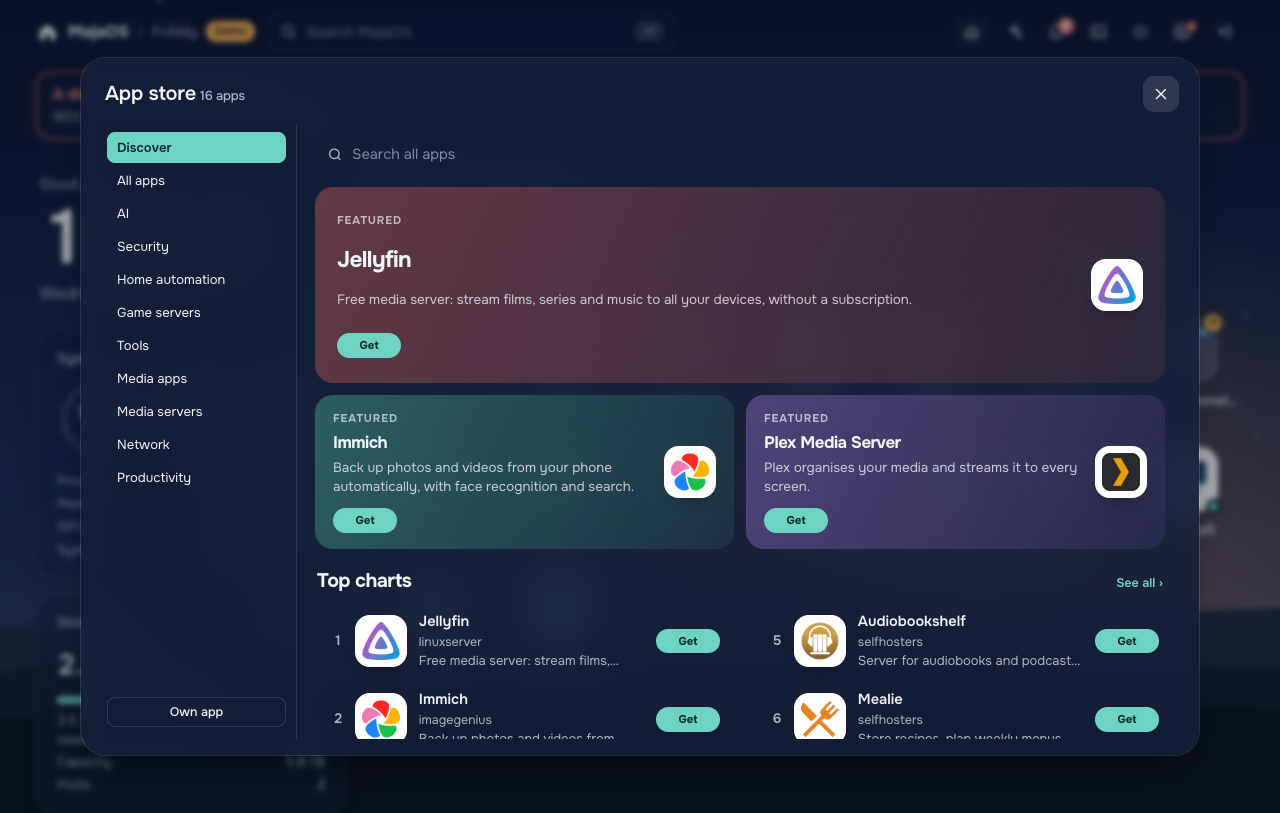
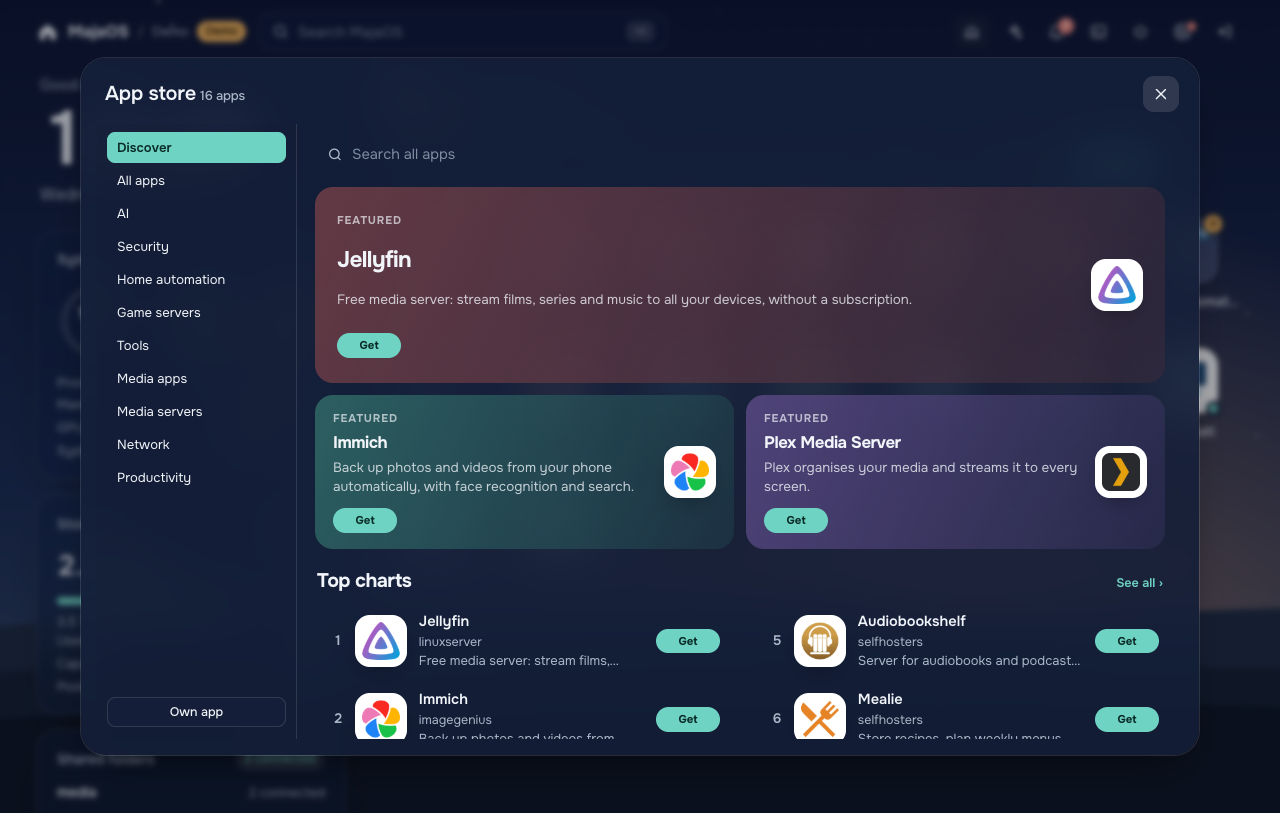
Call the demo server Demo and keep all its disks healthy; AI is not only Ollama.
The demo's server is named Demo (header, drive case, About, certificate names, backup paths). Bay 8 no longer remembers a removed disk, and sdd and sdb no longer have reallocated sectors or CRC errors, so the demo shows no disk warnings. The screenshots in docs/images are retaken.

The README lists every AI MajaOS can use: Ollama, LM Studio, llama.cpp, LocalAI or Claude, plus the MCP address.

diff --git a/public/demo.js b/public/demo.js
@@ -273,7 +273,7 @@
     if (action === 'setup') {
       if (mfa.enabled) throw err('Two-step verification is already on. Turn it off first to link again.', 409);
       mfa.setup = b32enc(crypto.getRandomValues(new Uint8Array(20)));
-      return { secret: mfa.setup, uri: `otpauth://totp/MajaOS:freddy?secret=${mfa.setup}&issuer=MajaOS&algorithm=SHA1&digits=6&period=30` };
+      return { secret: mfa.setup, uri: `otpauth://totp/MajaOS:demo?secret=${mfa.setup}&issuer=MajaOS&algorithm=SHA1&digits=6&period=30` };
     }
     if (!(await mfaCheck(body.code)).ok) { await wait(800); throw err('That code is not correct.', 401); }
     if (action === 'disable') { Object.assign(mfa, { enabled: false, secret: null, recovery: [], lastCounter: -1, since: null }); return { ok: true }; }
@@ -299,7 +299,7 @@
     };
   }
   const net = {
-    hostname: 'freddy', manager: 'ifupdown', editable: true, physical: ['enp5s0'], dns: ['192.168.1.1', '1.1.1.1'], resolvManaged: false, pending: null,
+    hostname: 'demo', manager: 'ifupdown', editable: true, physical: ['enp5s0'], dns: ['192.168.1.1', '1.1.1.1'], resolvManaged: false, pending: null,
     links: [
       { name: 'enp5s0', mac: 'a8:a1:59:3c:21:7e', up: true, state: 'UP', kind: 'ethernet', master: 'br0', ipv4: [], ipv6: [], gateway: null, speed: 2500 },
       { name: 'br0', mac: 'a8:a1:59:3c:21:7e', up: true, state: 'UP', kind: 'bridge', master: null, ipv4: [{ address: '192.168.1.10/24', dynamic: false }], ipv6: [], gateway: '192.168.1.1', speed: null },
@@ -919,14 +919,14 @@
       { key: 'user', label: 'User', type: 'text', required: true },
       { key: 'pass', label: 'Password', type: 'password', required: true }] },
   };
-  const bkRemotes = [{ name: 'google', type: 'drive', detail: '' }, { name: 'nas-mum', type: 'sftp', detail: 'freddy@nas-mum.home.arpa' }];
+  const bkRemotes = [{ name: 'google', type: 'drive', detail: '' }, { name: 'nas-mum', type: 'sftp', detail: 'demo@nas-mum.home.arpa' }];
   const bkResult = (hoursAgo, mins, files, size, extra = {}) => ({ kind: 'backup', dryRun: false, scheduled: true, started: Date.now() - hoursAgo * HOUR,
     ended: Date.now() - hoursAgo * HOUR + mins * 60000, state: 'ok', bytes: size, files, checks: 1840, deletes: 0, errors: 0, error: null, ...extra });
   const bkJobs = [
-    { id: 'a1b2c3d4', name: 'Photos to Google Drive', direction: 'push', mode: 'copy', remote: 'google', remotePath: 'Backups/Freddy/photos', localPath: '/tank/photos',
+    { id: 'a1b2c3d4', name: 'Photos to Google Drive', direction: 'push', mode: 'copy', remote: 'google', remotePath: 'Backups/Demo/photos', localPath: '/tank/photos',
       encrypt: false, versions: false, keepDays: 30, schedule: { every: 'daily', time: '02:00', day: 0 }, excludes: ['.DS_Store'], bwlimit: '',
       created: Date.now() - 40 * 86400000, lastScheduled: Date.now() - 7 * HOUR, lastRun: bkResult(7, 12, 34, 210 * MB) },
-    { id: 'b2c3d4e5', name: "Documents to Mum's NAS", direction: 'push', mode: 'sync', remote: 'nas-mum', remotePath: 'backup-freddy', localPath: '/tank/documents',
+    { id: 'b2c3d4e5', name: "Documents to Mum's NAS", direction: 'push', mode: 'sync', remote: 'nas-mum', remotePath: 'backup-demo', localPath: '/tank/documents',
       encrypt: true, versions: true, keepDays: 90, schedule: { every: 'weekly', time: '03:30', day: 0 }, excludes: [], bwlimit: '5M',
       created: Date.now() - 60 * 86400000, lastScheduled: Date.now() - 5 * 86400000, lastRun: bkResult(5 * 24, 4, 112, 380 * MB, { deletes: 3 }) },
     { id: 'c3d4e5f6', name: 'Keep Google Drive at home', direction: 'pull', mode: 'copy', remote: 'google', remotePath: '', localPath: '/tank/backups/google-drive',
@@ -943,7 +943,7 @@
       used: 186 * GB, lastChange: Date.now() - 50 * 60000, snapshots: 212, folders: ['C:\\Users\\tom'] },
   ];
   // Backup app (Kopia) on the NAS: turned on, with one PC.
-  const demoKopia = { installed: true, version: '0.19.0', enabled: true, running: true, port: 51515, hostname: 'Freddy', addresses: ['192.168.1.10'],
+  const demoKopia = { installed: true, version: '0.19.0', enabled: true, running: true, port: 51515, hostname: 'Demo', addresses: ['192.168.1.10'],
[1 lines of base64/hex data omitted]
     appUrl: 'https://github.com/lennertvh1/kopia/releases/latest' };
   const demoCode = () => { const abc = 'ABCDEFGHJKMNPQRSTUVWXYZ23456789'; const c = Array.from({ length: 8 }, () => abc[Math.floor(Math.random() * abc.length)]).join(''); return c.slice(0, 4) + '-' + c.slice(4); };
@@ -1130,7 +1130,7 @@
   }
   function bkBrowse(name, p) {
     if (!bkRemotes.some((r) => r.name === name)) throw err('This connection doesn\'t exist (anymore).', 404);
-    const tree = { '': ['Backups', 'Documents', 'Photos', 'Shared'], Backups: ['Freddy', 'Laptop'], 'Backups/Freddy': ['photos'], Documents: ['Taxes', 'House'], backup: [] };
+    const tree = { '': ['Backups', 'Documents', 'Photos', 'Shared'], Backups: ['Demo', 'Laptop'], 'Backups/Demo': ['photos'], Documents: ['Taxes', 'House'], backup: [] };
     const clean = String(p || '').replace(/^\/+|\/+$/g, '');
     return { path: clean, dirs: tree[clean] || [] };
   }
@@ -1730,7 +1730,7 @@
   /* ---- storage: ZFS */
   const disk = (name, model, size, rot, tran, temp, pool, vdev, role = 'data') => ({
     id: name, key: 's:DEMO' + name.toUpperCase(), name, model, serial: 'DEMO' + name.toUpperCase(), size, rotational: rot, transport: tran, temp, smartOk: true,
-    sectors: rot ? { reallocated: name === 'sdd' ? 8 : 0, pending: 0, uncorrectable: 0 } : null,
+    sectors: rot ? { reallocated: 0, pending: 0, uncorrectable: 0 } : null,
     pool, role, vdev, state: pool ? 'ONLINE' : null, errors: 0,
   });
   const disks = [
@@ -1748,7 +1748,7 @@
   ];
   // What lib/zpool.js poolOptions() returns (the system disk sdh is not among Storage's disks).
   const SYS_DISK = { name: 'sdh', size: 240e9, model: 'KINGSTON SA400S37240G', serial: 'DEMOSDH', rotational: false, transport: 'sata', byId: '/dev/disk/by-id/ata-KINGSTON_SA400S37240G_DEMOSDH', available: false, reason: 'System disk (Debian is on it)', warn: null };
-  // Details of a disk, as lib/disks.js parseSmart() gives them. sdc is asleep, sdd has a few reallocated sectors.
+  // Details of a disk, as lib/disks.js parseSmart() gives them. sdc is asleep; all disks are healthy.
   const smartState = {};
   function demoDisk(name, wake) {
     const d = disks.find((x) => x.name === name);
@@ -1767,16 +1767,16 @@
       { type: nv ? 'Extended' : 'Extended offline', passed: true, result: 'ok', text: 'Completed without error', hours: hours - 900 }] : [];
     const tests = st.tests.map((x) => ({ ...x, hours })).concat(baseTests);
     const attrs = hdd ? [[1, 'Raw_Read_Error_Rate', 200, 51, 0], [3, 'Spin_Up_Time', 172, 21, 4258], [4, 'Start_Stop_Count', 100, 0, 1204],
-      [5, 'Reallocated_Sector_Ct', 200, 140, name === 'sdd' ? 8 : 0], [9, 'Power_On_Hours', 50, 0, hours], [12, 'Power_Cycle_Count', 100, 0, 87],
+      [5, 'Reallocated_Sector_Ct', 200, 140, 0], [9, 'Power_On_Hours', 50, 0, hours], [12, 'Power_Cycle_Count', 100, 0, 87],
       [194, 'Temperature_Celsius', 116, 0, d.temp || 30], [197, 'Current_Pending_Sector', 200, 0, 0], [198, 'Offline_Uncorrectable', 100, 0, 0],
-      [199, 'UDMA_CRC_Error_Count', 200, 0, name === 'sdb' ? 3 : 0]] : [];
+      [199, 'UDMA_CRC_Error_Count', 200, 0, 0]] : [];
     return {
       name, transport: d.transport, rotational: d.rotational, sleeping: false,
       model: d.model + (hdd ? '-68AWUN0' : nv ? ' 500GB' : ' 1TB'), family: hdd ? (/ST4000/.test(d.model) ? 'Seagate IronWolf' : 'Western Digital Red') : 'Samsung based SSDs',
       serial: d.serial, firmware: hdd ? '81.00B81' : '3B4QFXO7', size: d.size, rpm: hdd ? (/ST4000/.test(d.model) ? 5900 : 5400) : null,
       formFactor: hdd ? '3.5 inches' : nv ? 'M.2' : '2.5 inches', link: nv ? null : '6.0 Gb/s', smartOk: true, temp: d.temp,
       powerOnHours: hours, powerCycles: 40 + (seed % 60),
-      watch: nv ? { mediaErrors: 0, criticalWarning: 0 } : { reallocated: name === 'sdd' ? 8 : 0, pending: 0, uncorrectable: 0, crcErrors: name === 'sdb' ? 3 : 0 },
+      watch: nv ? { mediaErrors: 0, criticalWarning: 0 } : { reallocated: 0, pending: 0, uncorrectable: 0, crcErrors: 0 },
       nvme: nv ? { percentUsed: name === 'nvme0n1' ? 4 : 3, spare: 100, spareThreshold: 10, written: (name === 'nvme0n1' ? 18.4 : 17.9) * 1e12, unsafeShutdowns: 12 } : null,
       errorLog: 0, testRunning: st.running ? { remaining: Math.min(90, Math.max(10, Math.round(((st.running.until - Date.now()) / st.running.total) * 10) * 10)) } : null,
       testMinutes: hdd ? { short: 2, long: /ST4000/.test(d.model) ? 412 : 252 } : null, tests,
@@ -1888,11 +1888,9 @@
     ['tank/media', 2.1 * TB, 1.0], ['tank/photos', 610 * GB, 1.01], ['tank/documents', 84 * GB, 1.42], ['tank/backups', 420 * GB, 1.18],
     ['tank/isos', 12 * GB, 1.0], ['tank/vms', 96 * GB, 1.31], ['fast/appdata', 162 * GB, 1.65], ['fast/docker', 28 * GB, 1.52],
   ].map(([name, used, compress]) => ({ name, used, free: name.startsWith('tank') ? 2.05 * TB : 271 * GB, mountpoint: '/' + name, compress }));
-  // Disk bays: 8 bays (the four HDDs of tank, three free disks, one empty), 2 M.2 slots with the NVMes of fast and 2 slots of 2.5" (one SSD).
+  // Disk bays: 8 bays (the four HDDs of tank, three free disks, one empty; all healthy), 2 M.2 slots with the NVMes of fast and 2 slots of 2.5" (one SSD).
   let bays = { count: 8, columns: 8, m2: 2, ssd: 2, slots: Object.fromEntries([['sda', 1], ['sdb', 2], ['sdc', 3], ['sdd', 4], ['sde', 5], ['sdf', 6], ['sdg', 7],
     ['nvme0n1', 'm1'], ['nvme1n1', 'm2'], ['sdi', 's1']].map(([n, id]) => [id, { key: 's:DEMO' + n.toUpperCase(), label: 'DEMO' + n.toUpperCase() }])) };
-  // Bay 8 still remembers a disk that is no longer in the machine, so the dashboard shows the red warning.
-  bays.slots['8'] = { key: 's:WD-WCC4N7VY1A2B', label: 'WDC WD20EFZX' };
   function demoAlerts() {
     const bayName = (id) => { const m = String(id).match(/^([ms]?)(\d+)$/); if (!m) return String(id); if (m[1] === 'm') return 'M.2 ' + m[2]; if (m[1] === 's') return '2.5" ' + m[2]; return m[2]; };
     const present = new Set(disks.map((d) => d.key));
@@ -2004,7 +2002,7 @@
   function overview() {
     const used = rnd(15.2, 16.6) * GB;
     return {
-      hostname: 'Freddy', uptime: Math.round((Date.now() - bootTime) / 1000), version: 'Debian GNU/Linux 13 (trixie)',
+      hostname: 'Demo', uptime: Math.round((Date.now() - bootTime) / 1000), version: 'Debian GNU/Linux 13 (trixie)',
       cpu: { brand: 'AMD Ryzen 7 5700X 8-Core Processor', cores: 8, threads: 16, percent: Math.round(rnd(6, 22)) },
       memory: { total: 32 * GB, used, zfsCache: 6 * GB, percent: Math.round((used / (32 * GB)) * 1000) / 10 },
       storage: storageSummary(), gpu: gpu(),
@@ -2191,7 +2189,7 @@
   function demoRemoteSet(body) {
     const cur = { mode: 'off', url: '', address: '', hasToken: false, ...demoRemote() };
     if (body.mode === 'off') { demoRemoteSave({ ...cur, mode: 'off', url: '' }); return demoRemoteView(); }
-    if (body.mode === 'quick') { demoRemoteSave({ ...cur, mode: 'quick', url: 'https://freddy.trycloudflare.com' }); return demoRemoteView(); }
+    if (body.mode === 'quick') { demoRemoteSave({ ...cur, mode: 'quick', url: 'https://demo.trycloudflare.com' }); return demoRemoteView(); }
     if (body.mode === 'token') {
       let origin = String(body.address || '').trim();
       if (!origin) throw err('Type an address like https://home.example.com.');
@@ -2232,7 +2230,7 @@
     // HTTPS with the server's own certificate (lib/tls.js). The demo has none to download.
     if (path === '/api/tls') {
       return { enabled: demoSecurity.https !== false, port: demoSecurity.https !== false ? 443 : 0, listening: demoSecurity.https !== false, kind: 'own',
-        names: ['localhost', 'freddy', 'freddy.local', '127.0.0.1', '192.168.1.10'], expires: new Date(Date.now() + 380 * 864e5).toISOString(),
+        names: ['localhost', 'demo', 'demo.local', '127.0.0.1', '192.168.1.10'], expires: new Date(Date.now() + 380 * 864e5).toISOString(),
         caFingerprint: '6D:CE:C0:A0:7B:0E:D7:79:57:5F:1E:AE:D9:21:14:10:2A:74:8D:75:4E:1B:12:90:65:49:67:5E:A2:7F:EE:AB', caExpires: new Date(Date.now() + 3650 * 864e5).toISOString() };
     }
     if (path === '/api/mcp') return { user: acct.user, passwordEnabled: true, terminal: !!demoSecurity.terminal, enabled: demoSecurity.mcp !== false };

diff --git a/README.md b/README.md
@@ -25,7 +25,7 @@ MajaOS turns a fresh **Debian 13** machine into a home server you manage from th
 | **Virtual machines** | KVM / libvirt | Create Linux, Windows 11 or Home Assistant OS VMs, console in the browser, USB and PCI passthrough, snapshots, start on boot with a delay |
 | **Shared folders** | Samba | Users and groups with rights per folder, Time Machine, Windows *Previous Versions* from hourly ZFS snapshots |
 | **Backups** | rclone, Kopia | Your PCs and Macs to the server, the server to Google Drive, OneDrive, Dropbox, S3 or another NAS, apps and VMs to a folder |
-| **AI** | Ollama | Download and run local models on your GPU, and a chat that can manage the server |
+| **AI** | Ollama, LM Studio, llama.cpp, LocalAI or Claude | A chat that checks and manages the server for you, with a local model on your own GPU or with Claude; and an MCP address so Claude Desktop, Cursor or VS Code can do the same |
 
 And around it: two-step sign-in, HTTPS out of the box, network and Docker network settings with automatic rollback, Debian and MajaOS updates from the dashboard, a root terminal (off unless you want it), light and dark themes, and ten interface languages.
 
